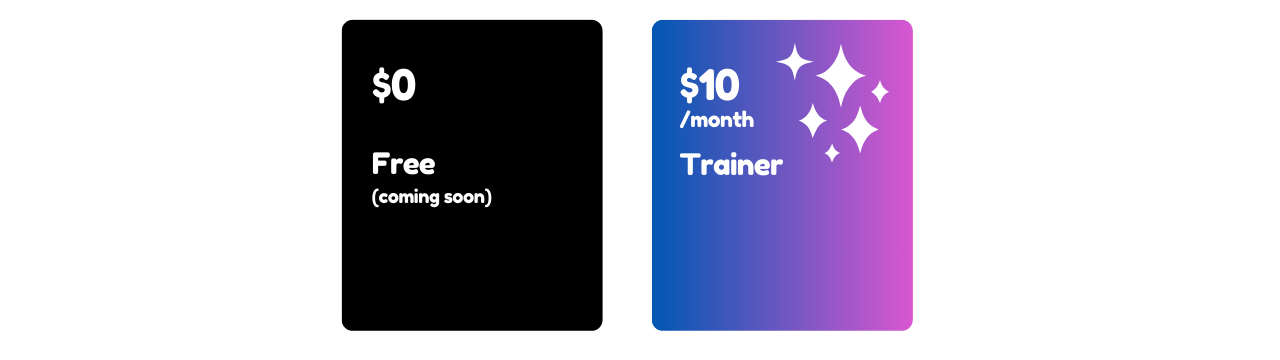
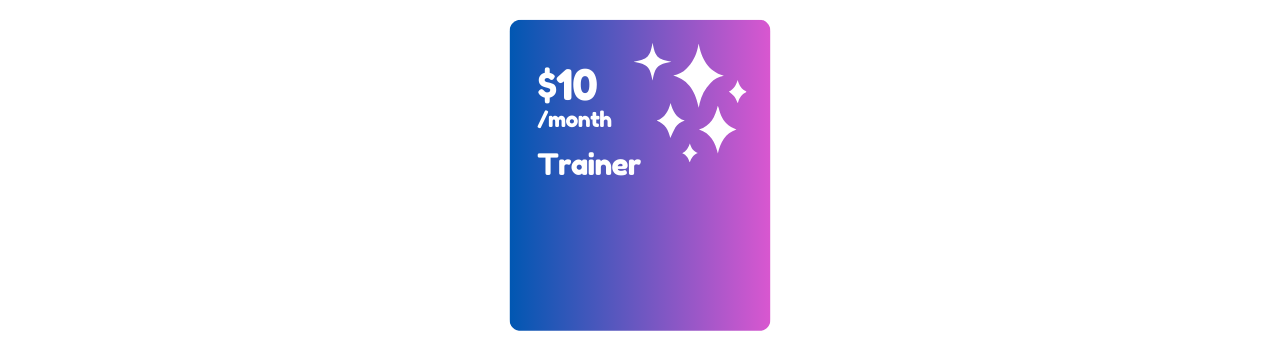
Updated pricing page

diff --git a/Wisp/index.html b/Wisp/index.html
@@ -121,7 +121,8 @@
                                     Supported Languages: All
                                 </span>
                                     <div class="flex items-center justify-left mt-2">
-                                        <a class="btn-hover color-3 mb-2" href="https://firebasestorage.googleapis.com/v0/b/wisp-134d6.appspot.com/o/updates%2Fwindows%2FWisp%20Setup.exe?alt=media">Windows Download</a>
+                                        <a class="btn-hover color-purple mb-2" href="https://newcomergames.com/Wisp/pricing" style="font-family: 'Fredoka', sans-serif; font-size: 1.5rem; padding: 1.25rem 3rem; font-weight: 500; width: 280px; text-align: center;">Pricing</a>
+                                        <!-- <a class="btn-hover color-3" href="https://firebasestorage.googleapis.com/v0/b/wisp-134d6.appspot.com/o/updates%2Fwindows%2FWisp%20Setup.exe?alt=media">Windows Download</a> -->
                                         <!-- <a class="btn-hover color-3" href="https://newcomergames.com/Wisp/pricing/">Windows Download</a> -->
                                         <!-- <a class="btn-hover color-3" href="https://newcomergames.com/Wisp/pricing/">Pricing</a> -->
                                     </div>

diff --git a/Wisp/wisp_style.css b/Wisp/wisp_style.css
@@ -51,3 +51,12 @@
     box-shadow: 0 4px 15px 0 rgba(116, 79, 168, 0.75);
     color: #000000; /* Change text color */
 }
+
+.btn-hover.color-purple {
+    background-image: linear-gradient(to right, #341366, #481896, #c45dff, #8827c0);
+    box-shadow: 0 4px 15px 0 rgba(107, 33, 168, 0.75);
+    color: #ffffff;
+    border: 2px solid #000000;
+    border-bottom: 6px solid #000000;
+    border-radius: 12px;
+}

diff --git a/Wisp/pricing/pricing_style.css b/Wisp/pricing/pricing_style.css
@@ -63,25 +63,25 @@
 /* Position each text item */
 #shine-text {
     top: 52%;
-    left: 55%;
+    left: 27%;
     transform: none;
 }
 
 #stream-text {
     top: 62%;
-    left: 55%;
+    left: 27%;
     transform: none;
 }
 
 #chronicle-text {
     top: 72%;
-    left: 55%;
+    left: 27%;
     transform: none;
 }
 
 #refresh-text {
     top: 82%;
-    left: 55%;
+    left: 27%;
     transform: none;
 }
 
